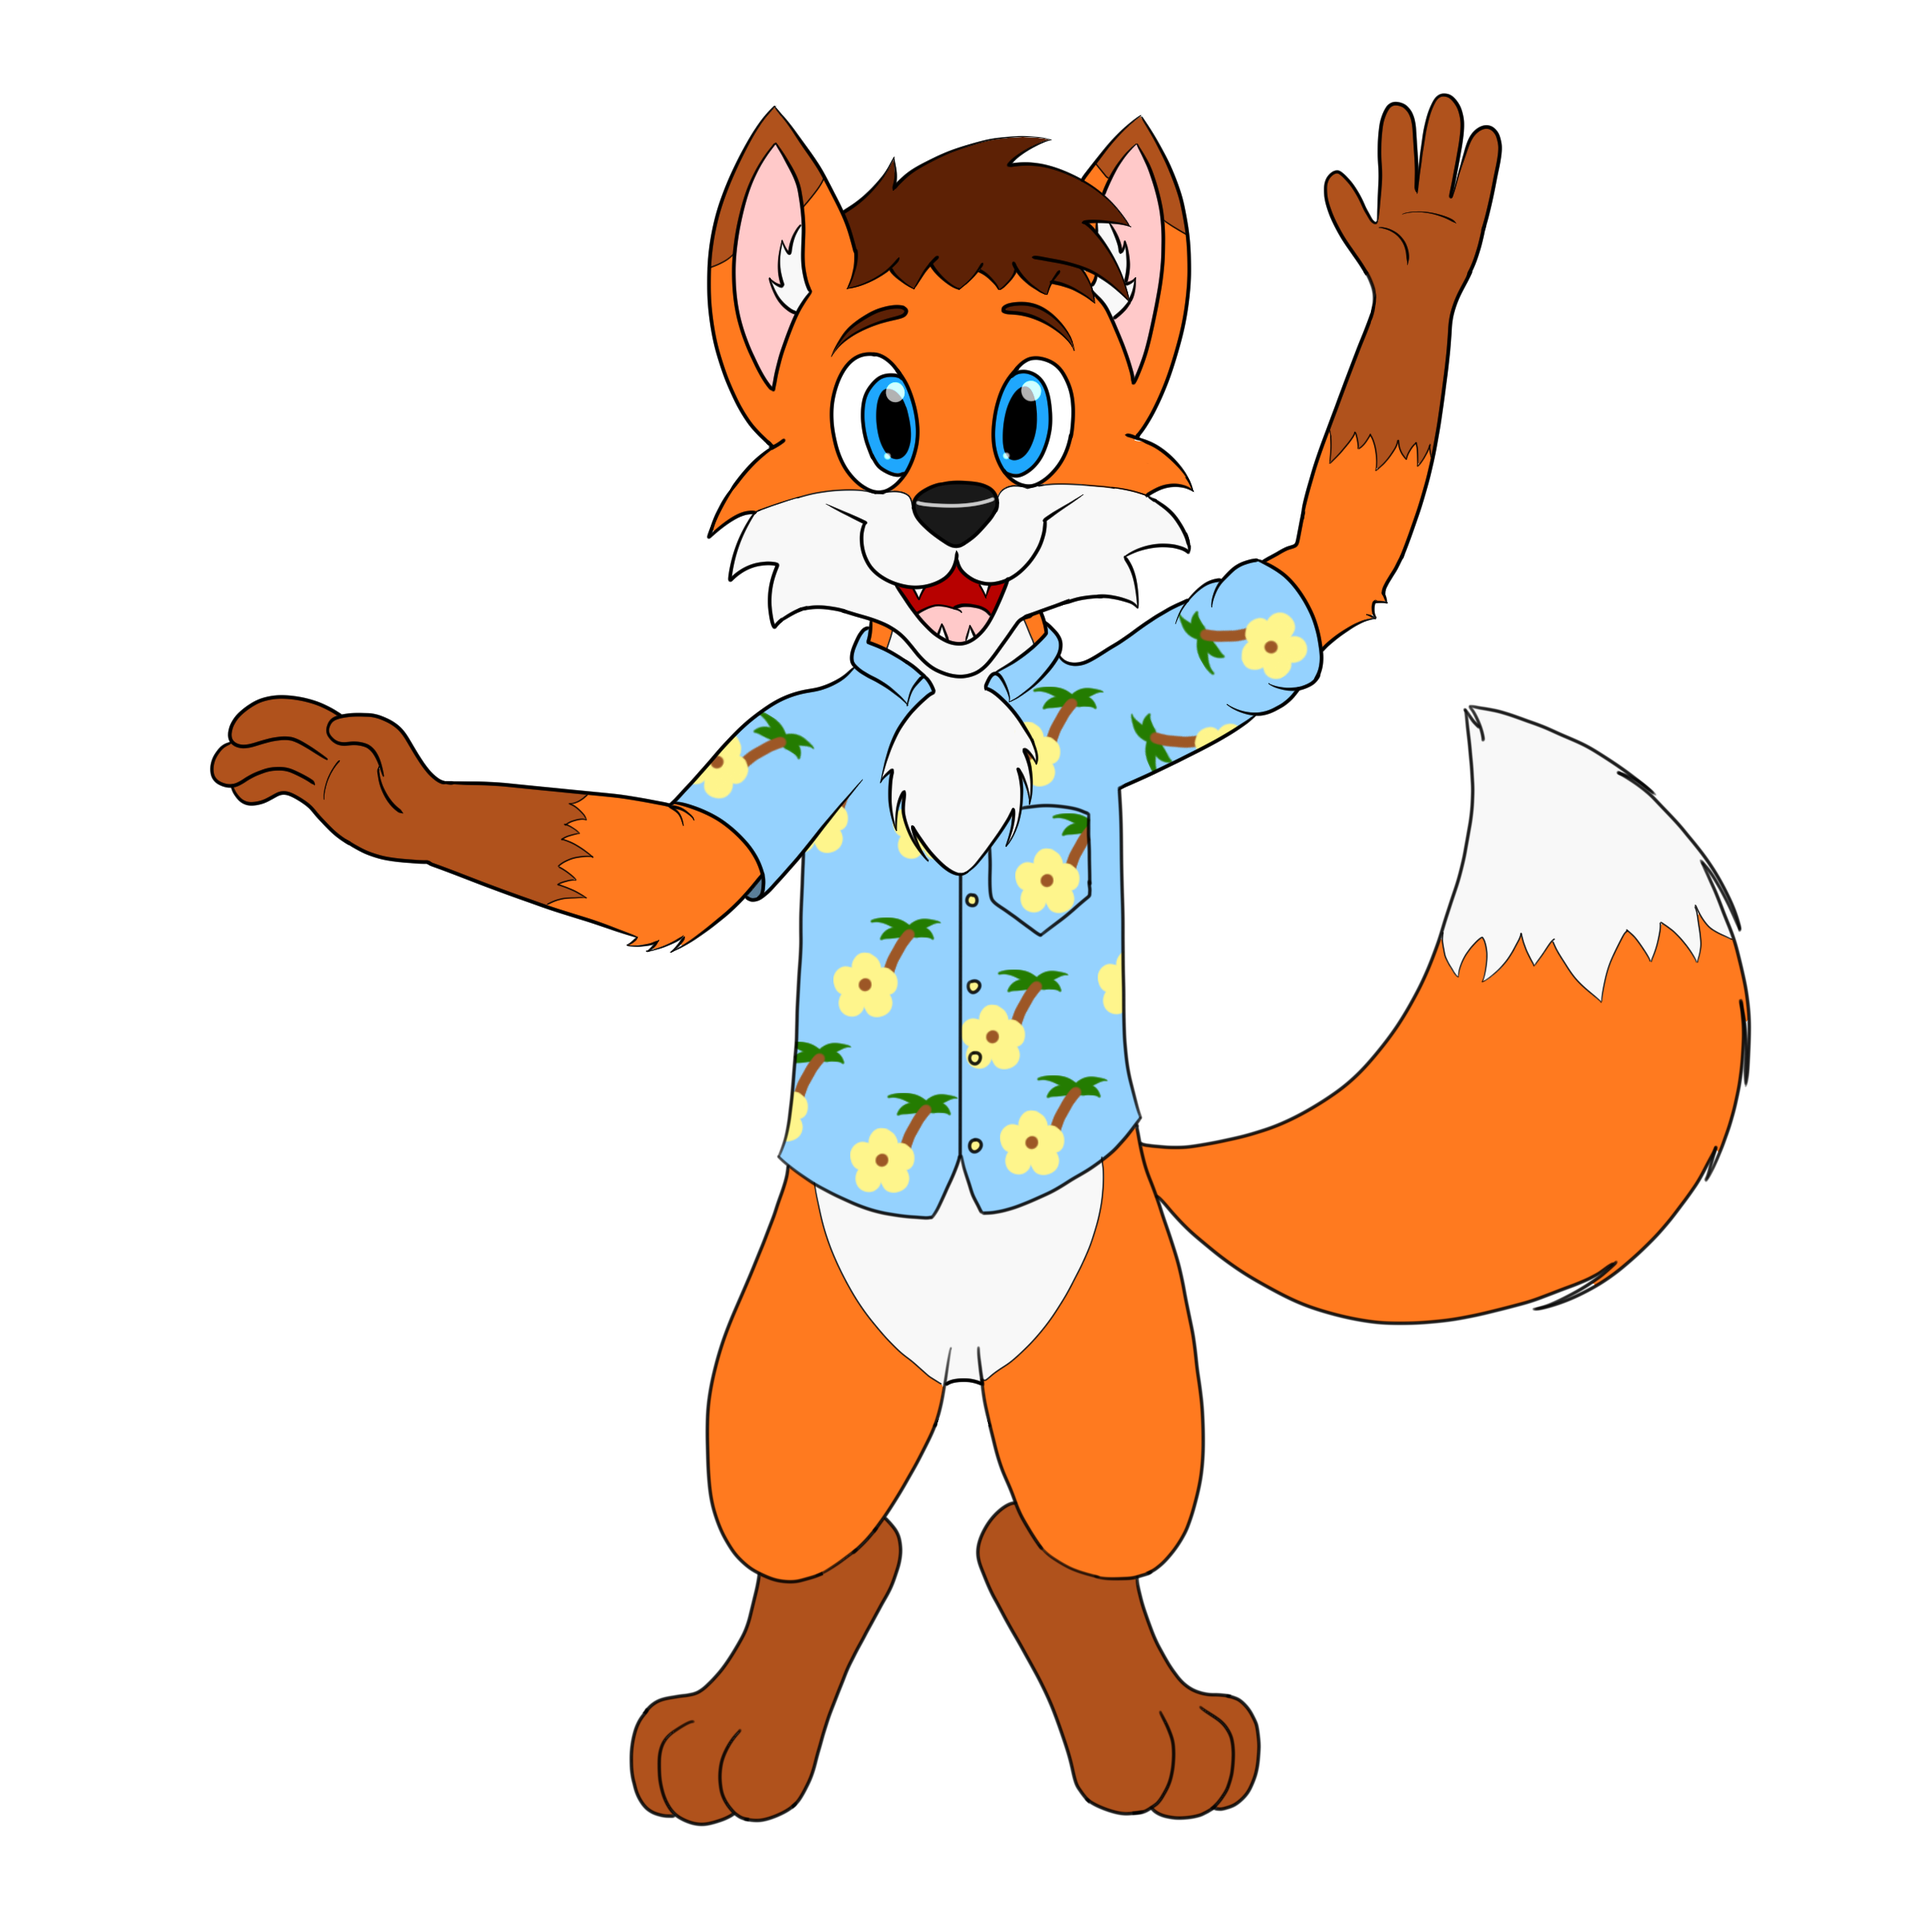
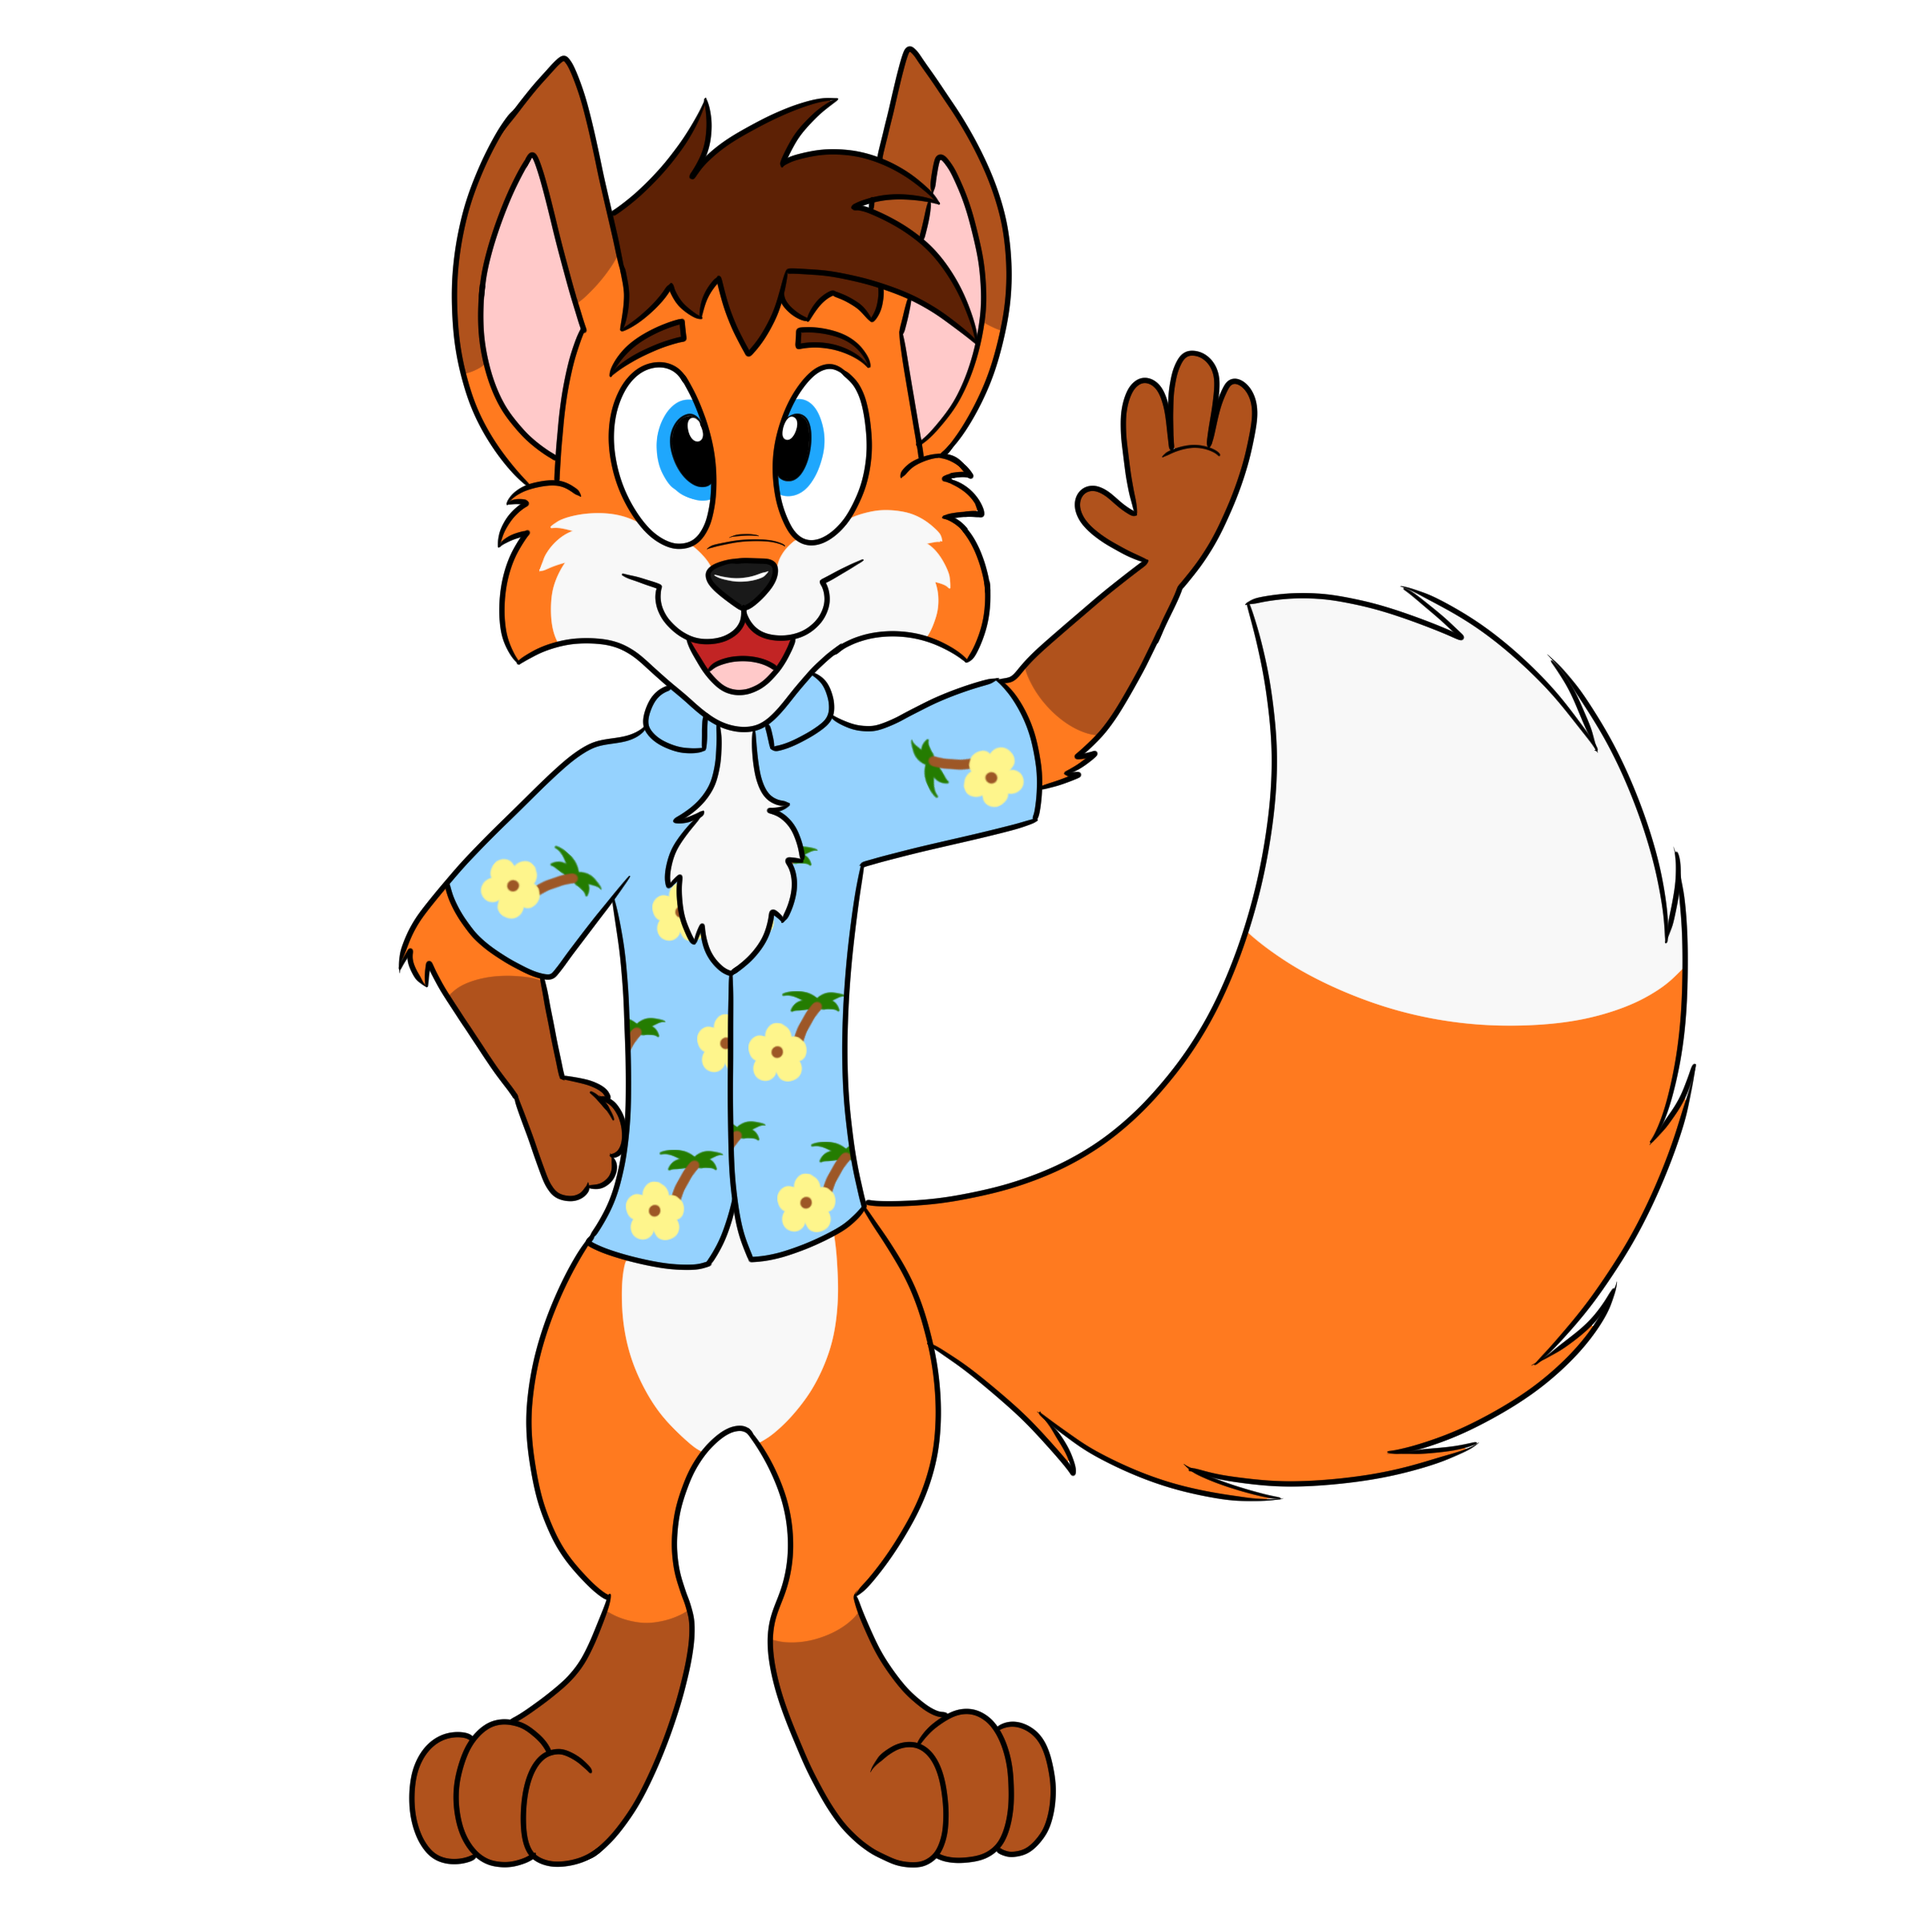
Fixed front page and added new Chase drawings

diff --git a/src/main/resources/html/index.html b/src/main/resources/html/index.html
@@ -45,7 +45,7 @@
             <div id="sidebar"></div>
             <div id="content">
                 <div class="divider" style="height:450px;">
-                    <div class="content left chase-full" style="width:60%;">
+                    <div class="content chase-full">
                         <p class="speech-bubble">
                             Hey, folks!
                         </p>
@@ -54,23 +54,6 @@
                             Come on in and find out about my cast of characters and the vast world I live in. Updates
                             and more info will come over time!
                         </p>
-                    </div>
-                    <div class="content right" style="width:30%;">
-                        <strong class="content-header">
-                            Recent Updates
-                        </strong>
-                        <div id="widgetmain">
-                            <div id="rsswidget">
-                                <iframe src="https://us1.rssfeedwidget.com/getrss.php?time=1439165634661&amp;x=http%3A%2F%2Fwww.chasethefox.com%2Frss%2Fupdates.xml&amp;w=200&amp;h=500&amp;bc=F8F8F8&amp;bw=0&amp;bgc=transparent&amp;m=10&amp;it=false&amp;t=(default)&amp;tc=333333&amp;ts=15&amp;tb=transparent&amp;il=true&amp;lc=0000FF&amp;ls=14&amp;lb=false&amp;id=true&amp;dc=333333&amp;ds=14&amp;idt=true&amp;dtc=333333&amp;dts=12" frameborder="no" marginwidth="0" marginheight="0" id="rssOutput">
-                                    Reading RSS Feed ...
-                                </iframe>
-                            </div>
-                            <div id="widgetbottom">
-                                <span style="font-size:70%">
-                                    <a href="http://www.rssfeedwidget.com">rss feed widget</a>&nbsp;
-                                </span><br>
-                            </div>
-                        </div>
                     </div>
                 </div>
                 <div class="divider" style="height:600px;">
@@ -85,7 +68,6 @@
                         <a href="https://www.picarto.tv/live/channel.php?watch=ChaseTheFox" class="badge center">
                             <img src="../img/picarto_button.jpg" alt="ChaseTheFox on Picarto">
                         </a>
-                        <iframe src="https://streambadge.com/twitch/dark/GameFoxChase/" class="badge"></iframe>
                         <strong class="content-header">Con Schedule</strong>
                         <p class="content-text">
                             ???
